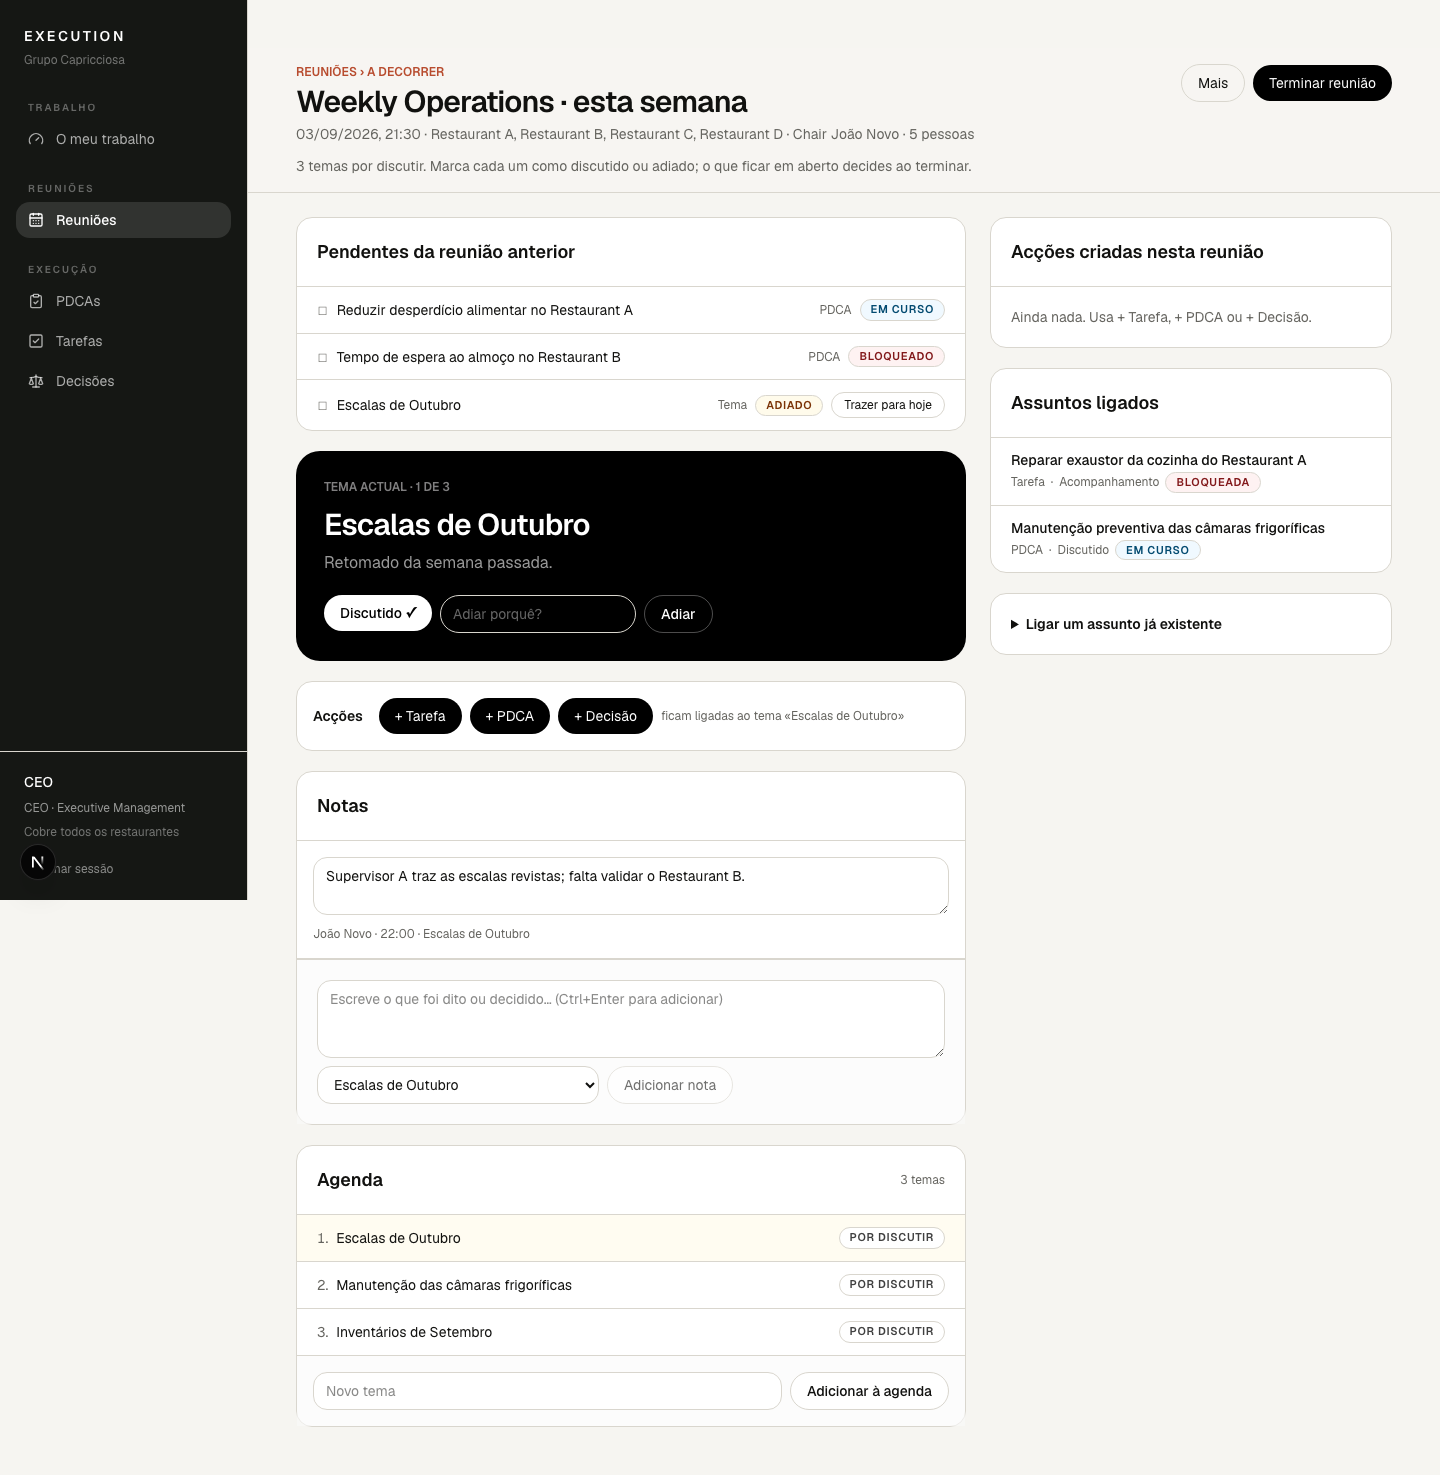
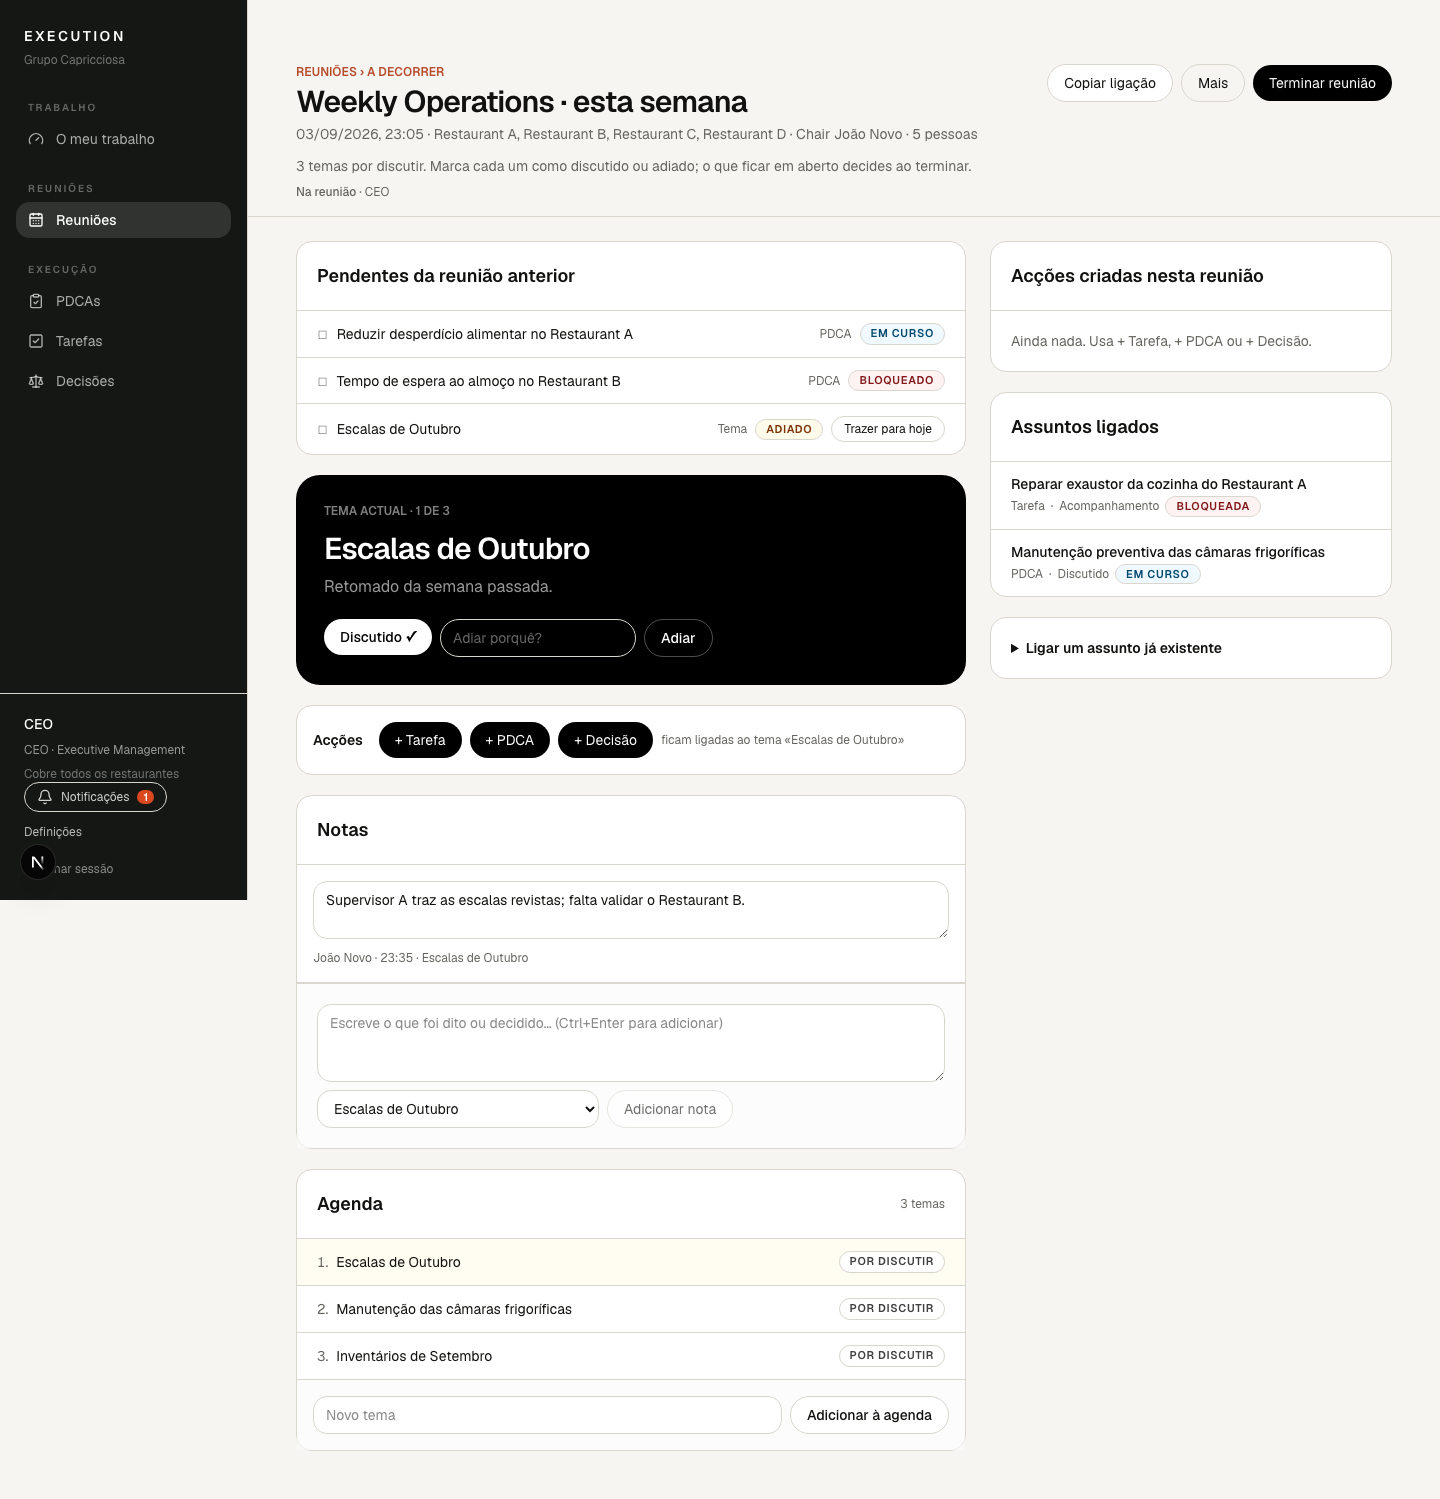
docs: manual chapters for participating, installing and notifications; future Microsoft 365 integration; refreshed screenshots

diff --git a/docs/architecture.md b/docs/architecture.md
@@ -298,3 +298,45 @@ Playwright is now part of the test foundation. Its local configuration waits for
 ## 22. Implementation status — AI Foundation
 
 `src/modules/ai` follows the module layout: `domain` (types, deterministic validators, strict output validation), `application` (gateway contract, prompts, context builders, `runUseCase` pipeline, services, repository contract, provider resolution) and `infrastructure` (fake and OpenAI gateways, Supabase repository over the `*_ai_*` commands). Server Actions in `src/app/actions/ai.ts` are transport adapters; pages under `/meetings/[id]/assistant`, the Task/PDCA detail pages and My Work render proposals and findings. Provider failures surface as non-destructive errors with a category (TIMEOUT, PROVIDER, SCHEMA, CONFIGURATION, DISABLED) and never block the deterministic workflows.
+
+## Live meetings, PWA and notifications (2026-09-03)
+
+- Realtime: private Broadcast channels with content-free signals and
+  authorized re-render; see `docs/realtime.md`.
+- PWA: shell-only caching, offline page, quiet updates; see `docs/pwa.md`.
+- Notifications: `audit_events → outbox_events → process_outbox → notifications
+→ push deliveries`, scheduled by `pg_cron` and/or the secured job route; see
+  `docs/notifications.md`.
+
+## Future: Microsoft 365 integration (not implemented)
+
+**Objective.** A GCPAi meeting session or series ↔ an Outlook calendar event,
+optionally with a Teams meeting. Outlook represents the calendar event; GCPAi
+remains the source of truth for PDCAs, tasks, decisions, permissions, scope,
+the operational agenda and the audit trail.
+
+**Future capabilities** (via Microsoft Graph): create the event when a meeting
+is marked ("Adicionar ao Outlook"), update it when date/time or participants
+change, cancel it, invite participants, create a Teams meeting and keep its
+URL, map recurrence, and put two links in the invitation: "Abrir reunião no
+GCPAi" (the direct link, which authorizes as today) and "Participar no Teams".
+
+**Prepared relationship** (no tables yet, to be added when the work starts):
+`meeting_sessions` / `meeting_series` → external calendar event with
+`provider`, `external_event_id`, `calendar_id`, `sync_status`, `last_synced_at`,
+`teams_join_url`, plus a per-user token/consent record. Nothing in Realtime,
+PWA or notifications depends on identity providers, so Entra ID can be added
+later as a Supabase Auth provider.
+
+**Open questions to decide before implementing** (not decided silently now):
+
+1. Who owns date/time — GCPAi, Outlook, or last write wins with an audit note?
+2. Participants: does adding someone in Outlook add them in GCPAi (they still
+   need scope) and vice versa?
+3. Cancellations on either side; recurring series ↔ Outlook recurrence
+   mapping and exceptions.
+4. Changes made in Outlook to a synced event: mirror, warn, or ignore?
+5. Conflict resolution and idempotent re-sync after failures.
+6. Teams meeting URL lifecycle when a meeting is rescheduled.
+7. Delegated (per-user consent) vs application permissions; Entra ID as the
+   sign-in strategy and how it maps to profiles.

diff --git a/docs/manual/10-participar-numa-reuniao.md b/docs/manual/10-participar-numa-reuniao.md
@@ -1,0 +1,64 @@
+# 10. Participar numa reunião
+
+## Encontrar as minhas reuniões
+
+Em **O meu trabalho › Próximas reuniões** aparecem as reuniões em que
+participas ou conduzes, com a data e um botão **Entrar na reunião**. Uma
+reunião a decorrer mostra «● A decorrer agora»; uma que está quase a começar
+mostra «Começa em breve». Também recebes uma notificação quando te adicionam a
+uma reunião e um lembrete 30 minutos antes.
+
+![Próximas reuniões](../screenshots/02-my-work.png)
+
+## Entrar
+
+Carrega em **Entrar na reunião** ou abre a ligação que te enviaram (por
+Teams, WhatsApp ou email). Se ainda não tiveres sessão iniciada, entras primeiro
+e a aplicação leva-te directamente à reunião. A ligação só te leva lá: quem não
+tem acesso à reunião vê apenas «Não tens acesso a este conteúdo».
+
+## Quem está na reunião
+
+Por baixo do título aparece **Na reunião · Ana · Gui · Mafalda**: as pessoas
+que têm a reunião aberta neste momento.
+
+![Presença](../screenshots/23-meeting-mode-presence.png)
+
+## Chair e participantes
+
+- O **Chair** conduz: abre a reunião, gere a agenda, marca temas como
+  discutidos ou adiados, corrige bloqueios e faz **Terminar e distribuir**.
+- Um **participante** acompanha a agenda e os pendentes a que tem acesso,
+  escreve notas, cria tarefas, PDCAs e decisões, e consulta as acções criadas.
+
+Participar numa reunião não dá acesso a nada que não vias antes. Duas pessoas
+na mesma reunião podem ver listas diferentes: um assunto privado ligado à
+reunião só aparece a quem tem acesso a ele.
+
+## Criar uma Tarefa, um PDCA ou uma Decisão
+
+Usa os botões **+ Tarefa**, **+ PDCA** e **+ Decisão**. O painel abre ao lado,
+sem sair da reunião; a acção fica ligada ao tema actual e em rascunho até a
+reunião terminar. Ver os capítulos 3, 4 e 6 para os campos.
+
+## Alterações em tempo real
+
+Quando a Mafalda cria uma tarefa, ela aparece no ecrã do Gui sem recarregar.
+Agenda, temas discutidos, participantes, assuntos ligados e acções criadas
+actualizam-se para todos. Se a ligação cair, aparece «Sem ligação em tempo
+real — a tentar ligar…» e, mal volte, o ecrã põe-se em dia sozinho.
+
+## Duas pessoas a alterar a mesma informação
+
+Cada nota pertence a quem a escreveu, por isso a única forma de conflito é a
+mesma pessoa em dois dispositivos. Nesse caso o editor avisa «Versão mais
+recente — rever», mostra o texto mais recente por baixo do teu e deixa-te
+escolher **Usar a versão mais recente** ou **Manter o meu texto**. Nada é
+substituído às escondidas. Para a agenda e as acções, a última alteração
+gravada é a que fica, e todos a vêem.
+
+## Terminar a reunião (Chair)
+
+**Terminar reunião** mostra o resumo, os bloqueios a corrigir e os temas sem
+conclusão; **Terminar e distribuir** activa as acções e avisa cada responsável.
+Ver o capítulo 5.

diff --git a/docs/manual/12-notificacoes.md b/docs/manual/12-notificacoes.md
@@ -1,0 +1,55 @@
+# 12. Notificações
+
+## Centro de Notificações
+
+O sino na barra lateral mostra quantas notificações tens por ler. Abre
+**Notificações**: o separador **Não lidas** tem o que precisa de ti; **Todas**
+mostra o histórico. Cada entrada diz o que aconteceu, o assunto, quando, e tem
+um botão para abrir directamente a tarefa, o PDCA, a reunião ou a decisão.
+Abrir marca como lida; também podes **Marcar como lida** ou **Marcar todas
+como lidas**.
+
+![Notificações](../screenshots/21-notifications.png)
+
+## O que te avisa
+
+- **Tarefas**: atribuídas a ti, prazo alterado, bloqueadas, concluídas (se és
+  Owner), reabertas.
+- **PDCAs**: atribuídos como Responsável ou Owner, bloqueios, mudança de fase,
+  prazo alterado.
+- **Reuniões**: quando te adicionam, quando a reunião muda ou começa, quando
+  está à espera da tua validação (Chair), e um lembrete 30 minutos antes.
+- **Colaboração**: quando te mencionam (@Nome) ou comentam numa tarefa/PDCA
+  tua.
+- **Prazos**: 1 ou 2 dias antes, e quando algo fica em atraso.
+
+Não recebes notificações do que fazes tu próprio, nem de cada pequena
+alteração: várias mudanças seguidas no mesmo assunto ficam numa só entrada até
+a leres.
+
+## Preferências
+
+Em **Definições › Notificações** ligas e desligas cada grupo e escolhes quando
+avisar sobre prazos. São poucas opções de propósito.
+
+## Notificações push (no dispositivo)
+
+Para receber avisos mesmo com a aplicação fechada:
+
+1. Em **Definições › Push**, carrega em **Receber neste dispositivo**.
+2. Aceita o pedido do browser.
+
+Podes activar em vários dispositivos (portátil, telemóvel, outro browser) e ver
+a lista em Definições, com **Remover** para cada um. **Desactivar neste
+dispositivo** desliga só este. Dispositivos que deixam de existir são
+limpos automaticamente. Num computador partilhado, remove o teu dispositivo
+antes de o entregar.
+
+## Privacidade no ecrã bloqueado
+
+Para assuntos normais o aviso mostra o título («Nova tarefa atribuída — Rever
+proposta de servidores · Prazo: amanhã»). Para assuntos **reservados ou
+privados** o aviso diz apenas «Assunto reservado — Tem uma nova actualização
+num assunto reservado». O conteúdo só aparece depois de abrires a aplicação e
+de o acesso ser confirmado. Tocar numa notificação nunca dá acesso a nada: se
+entretanto perdeste acesso, vês «Não tens acesso a este conteúdo».

diff --git a/docs/permissions.md b/docs/permissions.md
@@ -379,3 +379,10 @@ Publication requires the current Chair and `meeting.publish`, checks assignments
 Two configurable permissions gate the use cases: `ai.meeting.assist` (Meeting Assistant and Meeting Summary, INTERSECT scope on the meeting session) and `ai.execution.validate` (Execution Validator, INTERSECT scope on the Task/PDCA). Starting a run requires both the use-case permission and read access to the target; read policies on `ai_runs`, `ai_run_sources` and `ai_proposals` derive from the current ability to read the target object, and a source row is hidden when the source object itself is not readable. Confirmation and rejection re-run the same checks at review time, and the created Decision/Task/PDCA inherits nothing from the proposal: the normal create commands validate full-scope coverage and assignee access again.
 
 Operational rule learnt while implementing: any function referenced from a row-level policy must grant EXECUTE to `authenticated` (as `private.can_access_security_object` does). A helper without that grant does not fail cleanly; it crashed the local PostgreSQL 17 backend during policy evaluation.
+
+## Realtime, notifications and push (2026-09-03)
+
+The central rule also governs joining a meeting's Realtime channel
+(`private.can_join_meeting_channel`), creating a notification for a recipient
+(checked at creation time) and opening any deep link (checked by the page).
+A Realtime signal, a notification or a push never carries a capability.

diff --git a/docs/meetings.md b/docs/meetings.md
@@ -198,3 +198,11 @@ Agenda items are separate ordered rows with `PENDING`, `DISCUSSED`, `POSTPONED` 
 Meeting Mode now offers quick Decision, Task and PDCA creation through the normal domain commands. These objects are linked as `CREATED` and remain DRAFT until meeting publication. Existing accessible objects can be linked as `DISCUSSED`, `REVIEWED`, `FOLLOW_UP` or `CLOSED_IN_MEETING`. Publication rejects pending agenda outcomes, invalid/inaccessible linked targets, incomplete Tasks/PDCAs, invalid assignees and stale versions. It activates the created objects through their normal lifecycle commands and writes a publication snapshot.
 
 The operational UI includes `/meeting-series`, `/meetings`, session detail, `/meetings/[id]/run` and `/meetings/[id]/review`. My Work includes accessible upcoming meetings, Chair review queues and authorized execution follow-ups. All lists are server-filtered and paginated where the operational population can grow.
+
+### Live Meeting Mode, presence and links (2026-09-03)
+
+Participants see each other's changes without refreshing, "Na reunião" lists
+who is present, "Copiar ligação" shares a navigation-only link, and notes
+signal newer versions instead of merging. Details: `docs/realtime.md`.
+Participation still creates no explicit grants; everyone sees the meeting
+within their own permissions.

diff --git a/docs/manual/11-instalar-a-aplicacao.md b/docs/manual/11-instalar-a-aplicacao.md
@@ -1,0 +1,38 @@
+# 11. Instalar a aplicação
+
+A aplicação instala-se como qualquer app: ícone próprio, janela própria e
+notificações. Não guarda dados no dispositivo; sem ligação mostra «Sem ligação
+à Internet» em vez de informação desactualizada.
+
+Em **Definições › Instalar aplicação** vês as instruções certas para o teu
+dispositivo.
+
+![Definições](../screenshots/22-settings.png)
+
+## Computador (Chrome ou Edge)
+
+1. Abre a aplicação no browser.
+2. Em **Definições**, carrega em **Instalar aplicação** (ou usa o ícone de
+   instalação na barra de endereço).
+3. Confirma. A aplicação abre numa janela própria e fica no Launchpad / menu
+   Iniciar.
+
+## iPhone e iPad
+
+1. Abre a aplicação no **Safari**.
+2. Toca em **Partilhar** (o quadrado com a seta para cima).
+3. Escolhe **Adicionar ao ecrã principal** e confirma.
+
+As notificações push no iPhone só funcionam depois deste passo (iOS 16.4 ou
+superior).
+
+## Android
+
+1. Abre a aplicação no Chrome.
+2. Aceita o pedido «Instalar aplicação» ou usa o menu ⋮ → **Adicionar ao ecrã
+   principal**.
+
+## Actualizações
+
+Quando existe uma versão nova aparece discretamente «Nova versão disponível —
+Actualizar». Podes actualizar na hora ou na próxima abertura.

diff --git a/docs/roadmap.md b/docs/roadmap.md
@@ -560,3 +560,9 @@ Still excluded and blocked pending approval: Executive Analytics, global Managem
 
 - Audit events feed the transactional outbox; `process_outbox` (pg_cron or the secured job route) creates authorized, coalesced in-app notifications; reminders and deadlines are scheduled.
 - Bell with live unread count, inbox with Não lidas/Todas and deep links, preferences in Definições.
+
+## 2026-09-03 — Web Push and polish (Gates D and E)
+
+- Per-device push subscriptions, delivery queue with retries and cleanup, provider abstraction (webpush/fake/disabled), reserved-subject payload policy, device management in Definições.
+- Polish: "Adicionar ficheiro" picker, discreet Sem prazo / Sem Owner hints in lists, dead `execution-form.tsx` removed, bell/Definições reachable on phones, manual chapters 10–12, screenshots refreshed.
+- Awaiting: real-meeting validation before Deterministic Executive Analytics; Microsoft 365 integration documented as future work only.

diff --git a/docs/manual/09-faq.md b/docs/manual/09-faq.md
@@ -26,3 +26,11 @@ Terminada; a aplicação trata do resto.
 **Uma tarefa precisa de Owner?**
 Não. Precisa de Responsável. O Owner é recomendado para assuntos que alguém
 deve acompanhar. Nos PDCAs o Owner é obrigatório.
+
+**Recebi uma ligação para uma reunião e diz que não tenho acesso.**
+A ligação não dá acesso; só te leva lá. Pede a quem gere a reunião para
+confirmar o teu âmbito ou adicionar-te como participante.
+
+**Não recebo notificações push no iPhone.**
+Instala primeiro a aplicação (Partilhar → Adicionar ao ecrã principal) e activa
+em Definições › Push a partir da aplicação instalada.

diff --git a/docs/manual/05-reunioes.md b/docs/manual/05-reunioes.md
@@ -30,6 +30,11 @@ Tudo acontece num ecrã:
 
 ![Painel + Tarefa](../screenshots/17-meeting-mode-task-sheet.png)
 
+**Copiar ligação** copia o endereço da reunião para enviares por Teams,
+WhatsApp ou email; a ligação só leva à reunião, não dá acesso. **Na reunião ·
+…** mostra quem está com a reunião aberta. O que os outros fazem aparece no teu
+ecrã sem recarregar (ver o capítulo 10).
+
 **Mais** leva à página da reunião: participantes, Chair, repetição, assistente e
 opções avançadas.
 

diff --git a/README.md b/README.md
@@ -103,3 +103,6 @@ All schema changes belong in versioned files under `supabase/migrations/`. `supa
 - Live Meeting Mode and presence: `docs/realtime.md`.
 - Installable PWA, caching and offline policy, branding variables: `docs/pwa.md`
   (`node scripts/icons.mjs` regenerates the icons from the configured name).
+- Notification Center and Web Push, outbox dispatcher and job route:
+  `docs/notifications.md`. Local development: `CRON_SECRET`, `PUSH_PROVIDER`
+  and VAPID keys in `.env.local` (see `.env.example`).

diff --git a/docs/manual/README.md b/docs/manual/README.md
@@ -14,6 +14,9 @@ Capítulos:
 7. [Quem vê o quê](07-visibilidade.md)
 8. [Exemplos práticos](08-exemplos.md)
 9. [Perguntas frequentes](09-faq.md)
+10. [Participar numa reunião](10-participar-numa-reuniao.md)
+11. [Instalar a aplicação](11-instalar-a-aplicacao.md)
+12. [Notificações](12-notificacoes.md)
 
 As imagens vêm de `docs/screenshots/` e são regeneradas com
 `node scripts/screenshots.mjs` (ambiente de desenvolvimento com dados de demonstração).
